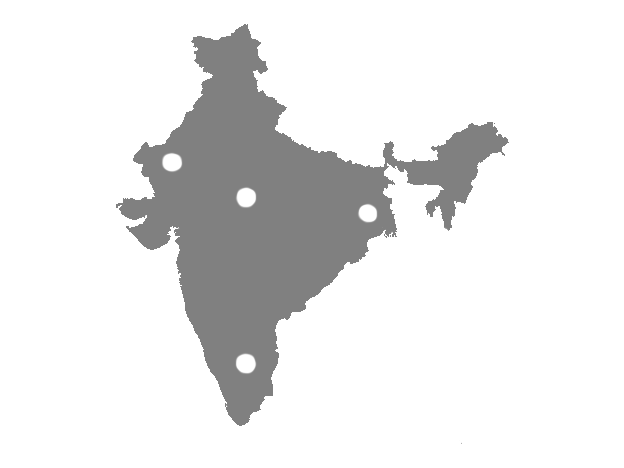
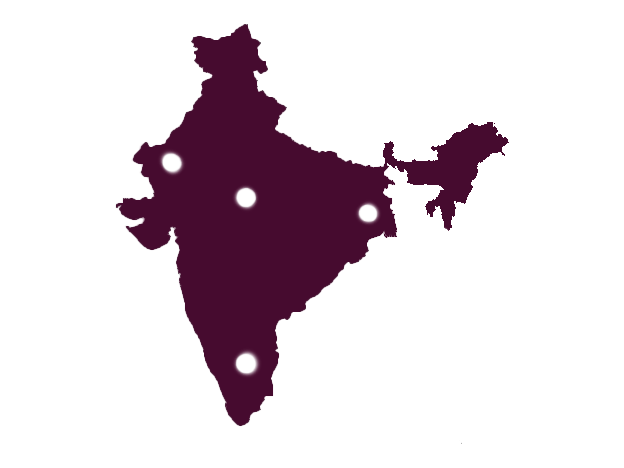
colonial image started

Changed region(s): [[0.1827, 0.0598, 0.8221, 0.9274]]

diff --git a/designDecolonization.html b/designDecolonization.html
@@ -19,12 +19,35 @@
     </header>
     <section id ="start">
         <div class="start-content">
-            <h1>Design Decolonization</h1>
-            <p>Welcome to Design Decolonization! This website is an interactive space where we will go through the connections between design and colonialism in India. This site is meant to be a low-stress informational module for those interested in learning more about the intersectionality between these two areas. Once you are done with a page, you can click the next button at the bottom right corner to proceed to the next slide. </p>
+            <div class="start-left">
+                <h1>Design Decolonization</h1>
+                <p class="welcome-message">Welcome to Design Decolonization! This website is an interactive space where we will go through the connections between design and colonialism in India. This site will explore the intersectionality between Design and culture, and the importance of culture-sensitive Design</p>
+            </div>
+            <div class="start-right">
+                <script type="module" src="https://unpkg.com/@splinetool/viewer@0.9.516/build/spline-viewer.js"></script>
+                <spline-viewer loading-anim-type="spinner-small-dark" url="https://prod.spline.design/nIcByF4j9hHLYG7n/scene.splinecode"></spline-viewer>
+            </div>
         </div>
-        <a href="#India1" id="intro-next" class="next-button">
-            <button>Continue</button>
+        <a href="#introduction" id="intro-next" class="next-button">
+            <button>Start</button>
         </a>
+    </section>
+    <section id ="introduction">
+        <div class="intro-content">
+            <div class="start-left reveal">
+                <h1 class="what-is-DD">So, what is Design Decolonization?</h1>
+            </div>
+            <div class="start-right reveal">
+                <p>Design Decolonization takes into account the ties between historical desgin trends and Eurocentric/Anglocentric perspectives. Through this perspective, there is little consideration for marginalized groups and that is reflected in these practices. This is especially harmful, as it can lead to unsustainable design theory and can isolate groups that can otherwise benefit from culture-specific design. </br>
+                Specifically, lets look at a country with years of colonialism in its history: India. </br>
+                Understanding the effects of colonialism is the first step to becoming aware of the effects of eurocentric design practices on non-european countries.</p>
+            </div>
+        </div>
+        <div class="button-container">
+            <a href="#India1">
+                <button>Start</button>
+            </a>
+        </div>
     </section>
     <section id ="India1">
         <div class="left-container reveal">
@@ -44,33 +67,73 @@
         <div class="right-container">
             <!--insert the informational content here-->
             <div id="tamil-nadu-container" class="info-container">
-                <div class="tamil-image-container">
-                    <h2>Tamil Nadu</h2>
+                <div class="image-container">
                     <img src="img/tamil_nadu.jpg" class="tamil-nadu-img">
+                    <h2>Tamil Nadu</h2>
                 </div>
-                <p>Information about Tamil Nadu...</p>
+                <p>These are murals from the Thirunandikkara Cave in Tamil Nadu. They are considered the oldest relics of Kerala's own style of murals. They are meant to represent early examples of Kerala style which heavily resembled Buddhist tradition at the time. Many depict religious and spiritual stories that are passed down through generations. Natural color sources such as vegetables were used to achieve a more colorful effect. </p>
             </div>
             
             <div id="bengal-container" class="info-container">
-                <h2>Bengal</h2>
-                <p>Information about Bengal...</p>
+                <div class="image-container">
+                    <img src="img/bengal.jpg" class="bengal-img">
+                    <h2>Bengal</h2>
+                </div>
+                <p>These are murals from the Thirunandikkara Cave in Tamil Nadu. They are considered the oldest relics of Kerala's own style of murals. They are meant to represent early examples of Kerala style which heavily resembled Buddhist tradition at the time. Many depict religious and spiritual stories that are passed down through generations. Natural color sources such as vegetables were used to achieve a more colorful effect. </p>
             </div>
             
             <div id="madya-pradesh-container" class="info-container">
-                <h2>Madya Pradesh</h2>
-                <p>Information about Madya Pradesh...</p>
+                <div class="image-container">
+                    <img src="img/madya_pradesh.jpg" class="madya-img">
+                    <h2>Madya Pradesh</h2>
+                </div>
+                <p>These are murals from the Thirunandikkara Cave in Tamil Nadu. They are considered the oldest relics of Kerala's own style of murals. They are meant to represent early examples of Kerala style which heavily resembled Buddhist tradition at the time. Many depict religious and spiritual stories that are passed down through generations. Natural color sources such as vegetables were used to achieve a more colorful effect. </p>
             </div>
             
             <div id="rajasthan-container" class="info-container">
-                <h2>Rajasthan</h2>
-                <p>Information about Rajasthan...</p>
+                <div class="image-container">
+                    <img src="img/rajastan.jpg" class="rajasthan-img">
+                    <h2>Rajasthan</h2>
+                </div>
+                <p>These are murals from the Thirunandikkara Cave in Tamil Nadu. They are considered the oldest relics of Kerala's own style of murals. They are meant to represent early examples of Kerala style which heavily resembled Buddhist tradition at the time. Many depict religious and spiritual stories that are passed down through generations. Natural color sources such as vegetables were used to achieve a more colorful effect. </p>
             </div>
         </div>
         
     </section>
-    <section id ="India2">
-        <h1>slide Title</h1>
-        <p>Id libero, officia minima ad iste odio beatae, distinctio, nam consectetur voluptatum reprehenderit unde. Illum ex repellat laudantium ea aut suscipit laboriosam maiores sint totam, eos numquam accusamus tempora reprehenderit.</p>
+    <section id ="Colonialism">
+        <div class="colonial-content reveal">
+            <div class="colonial-left">
+                <h1>Colonial Powers</h1>
+                <p>To get a better understanding of how these design practices develop, we need to look into the different colonial powers during this time. There were three main colonial powers that left the most impact on Indian life, art, and culture. Hover on the image to find out and click on the images to learn more.</p>
+            </div>
+            <div class="colonial-right reveal">
+                <!--three colonial powers-->
+                <div class="colonial-image-container">
+                    <!--colonial image and overlay here-->
+                    <img src="img/britishIndia.png" class="colonial-image">
+                    <div class="overlay">
+
+                    </div>
+                </div>
+
+                <div class="colonial-image-container">
+                    <!--colonial image and overlay here-->
+                    <img src="img/frenchIndia.png" class="colonial-image">
+                    <div class="overlay">
+                        
+                    </div>
+                </div>
+
+                <div class="colonial-image-container">
+                    <!--colonial image and overlay here-->
+                    <img src="img/portugueseIndia.png" class="colonial-image">
+                    <div class="overlay">
+                        
+                    </div>
+                </div>
+
+            </div>
+        </div>
     </section>
     <section>
         <h1>slide Title</h1>

diff --git a/css/designDecolonization.css b/css/designDecolonization.css
@@ -10,7 +10,6 @@ html {
 body {
     margin: 0;
     padding: 0;
-   
 
 }
 
@@ -76,7 +75,13 @@ header {
     margin: 30px;
 }
 
-.next-button button {
+.button-container {
+    margin: auto;
+    margin-top: 50%;
+}
+
+.next-button button,
+.button-container button {
     border-color: transparent;
     border-radius: 50px;
     background-color: black;
@@ -95,8 +100,8 @@ header {
 section {
     height: 100vh;
     display: flex;
+    padding: 5%;
     align-items: center;
-    text-align: center;
     /**    filter: contrast(370%) brightness(100%);
     background: 
     linear-gradient(183deg, rgba(251,139,36,1), rgba(150,100,100,0)),
@@ -106,20 +111,44 @@ section {
 
 section h1 {
     font-family: 'Kumar One', serif;
-    font-size: 5vw;
+    font-size: 4vw;
     text-shadow: 2px 2px 4px rgba(0, 0, 0, 0.5);
 }
 
-.start-content {
+.start-content,
+.intro-content {
     display: flex;
-    flex-direction: column;
-    padding: 5%;
 }
 
-.start-content p {
+.welcome-message {
     font-size: 30px;
     font-family: 'Mina', sans-serif;
     font-weight: 500;
+}
+
+.start-left {
+    flex: 1;
+}
+
+.start-right {
+    width: 100%;
+    margin: 0 auto;
+}
+
+.what-is-DD {
+    font-size: 50px;
+}
+
+#introduction p {
+    font-family: 'Mina', sans-serif;
+    font-weight: 550;
+    font-size: 20px;
+}
+
+#introduction .start-right {
+    display: flex;
+    justify-content: flex-end;
+    text-align: right;
 }
 
 #India1 {
@@ -153,18 +182,65 @@ section h1 {
     box-sizing: border-box;
 }
 
-.tamil-image-container img {
-    width: 525px;
-    height: 346px;
-}
-
-.tamil-image-container {
-    display: flex;
+.image-container img {
+    width: 550px;
+    height: 350px;
     overflow: hidden;
 }
 
-.info-container {
-    background-color: #460b2f;
-    padding: 2%;
-    color: white;
+.image-container {
+    display: flex;
+    justify-content: center;
 }
+
+.info-container {
+    padding: 2%;
+    color: black;
+    border: #460b2f solid 2px;
+}
+
+.info-container h2 {
+    color: white;
+    margin-left: 1%;
+    font-size: 40px;
+    display: inline;
+    padding: 2%;
+    background-color: #460b2f;
+}
+
+.colonial-content {
+    display: flex;
+}
+
+.colonial-left {
+    display: flex;
+    flex-direction: column;
+    width: 50%;
+}
+
+.colonial-left p {
+    font-size: 25px;
+    font-family: 'Mina', sans-serif;
+    font-weight: 500;
+}
+
+.colonial-right {
+    display: flex;
+    flex-direction: column;
+}
+
+.colonial-image-container {
+    background-color: white;
+    width: 700px;
+    height: 200px;
+    margin: 2%;
+    overflow: hidden;
+}
+
+.colonial-image-container img {
+    width: 100%;
+    height: 100%;
+    object-fit: cover;
+}
+
+

diff --git a/js/imagemap.js b/js/imagemap.js
@@ -24,7 +24,7 @@ document.addEventListener('DOMContentLoaded', function () {
 });
 
 function showContainer(containerId) {
-    console.log('Clicked on area. Showing container:', containerId);
+    //console.log('Clicked on area. Showing container:', containerId);
     // Hide all info containers
     const containers = document.querySelectorAll('.info-container');
     containers.forEach(container => container.style.display = 'none');
